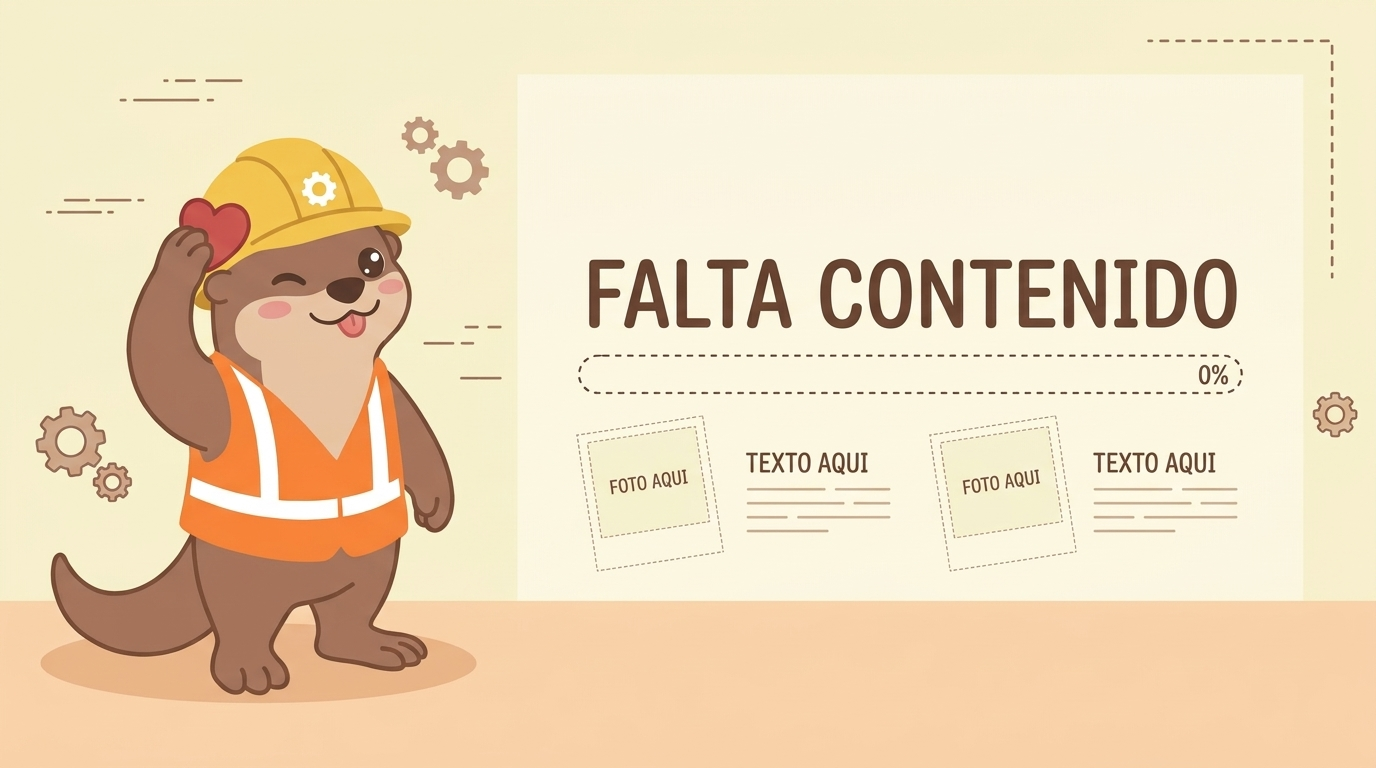
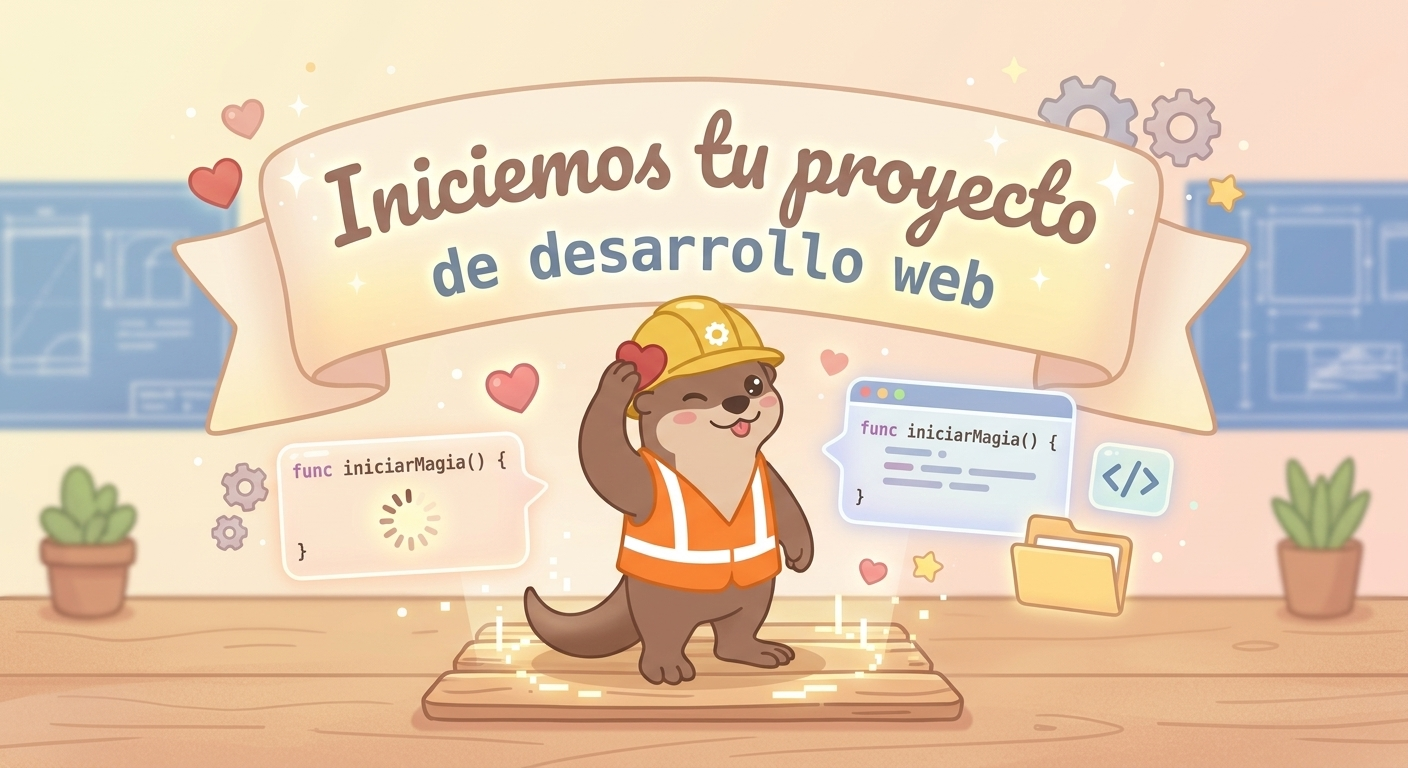
Mejoras generales y cambio a img portada

diff --git a/js/app.js b/js/app.js
@@ -2,8 +2,8 @@
    Cambia estos datos, activa/oculta páginas con on:true/false
    y activa/oculta zonas de la anatomía con on:true/false. */
 const CONFIG={
-  project:"[Nombre del proyecto]", client:"[Nombre del cliente]", analyst:"[Analista Funcional]",
-  contact:"[correo@empresa.com] · [Teléfono]",
+  project:"Protafolio Profesional (Med-Page)", client:"Dra M.Camila Paredes P.", analyst:"Inti Panesso C. / Analista Funcional",
+  contact:"intipanessochavez@gmail.com · +57 333 23566966",
   goal:"[Ej.: Presentar los servicios y facilitar que los clientes nos contacten.]",
   audience:"[Ej.: Familias de la ciudad que buscan servicios de ___.]",
   formspree:"https://formspree.io/f/TU_ID",
@@ -19,7 +19,16 @@ const CONFIG={
   styler:true, /* mostrar el selector de estilos visuales */
   zones:{nav:true,header:true,body:true,footer:true,modal:true,anim:true},
   brandingState:[["Logotipo","[Sí / No / En proceso]"],["Paleta de colores","[Sí / No / En proceso]"],["Tipografías","[Sí / No / En proceso]"],["Fotografías propias","[Sí / No / En proceso]"],["Manual de marca","[Sí / No / En proceso]"]],
-  stages:[["Descubrimiento","Conversamos sobre tu negocio, objetivos y público.","Responder preguntas","[X días]"],["Estructura (el plano)","Definimos páginas y contenido de cada una.","Aprobar el mapa del sitio","[X días]"],["Diseño","Colores, tipografías, imágenes y estilo.","Opinar y aprobar","[X días]"],["Desarrollo","Convertimos el diseño en página funcional.","Entregar textos e imágenes finales","[X días]"],["Pruebas","Revisamos celular, tablet y computador.","Probar y reportar","[X días]"],["Publicación","Tu sitio sale a internet.","Aprobación final","[X días]"],["Acompañamiento","Resolvemos dudas y ajustes.","Avisarnos novedades","[X días]"]]
+  stages:[
+  ["Descubrimiento","Conversamos sobre tu negocio, objetivos y público.","Responder preguntas","[X días]",2,"Conversaciones y definición de objetivos: pide claridad de ideas más que trabajo técnico."],
+  ["Estructura (el plano)","Definimos páginas y contenido de cada una.","Aprobar el mapa del sitio","[X días]",3,"Hay que decidir qué páginas existen y priorizar qué se cuenta en cada una."],
+  ["Diseño","Colores, tipografías, imágenes y estilo.","Opinar y aprobar","[X días]",4,"Traducir tu identidad en colores, tipografías y formas; suele requerir varias rondas de ajustes."],
+  ["Desarrollo","Convertimos el diseño en página funcional.","Entregar textos e imágenes finales","[X días]",5,"La etapa más técnica y larga: construir cada página, conectar el formulario y adaptar todo a celular, tablet y computador."],
+  ["Pruebas","Revisamos celular, tablet y computador.","Probar y reportar","[X días]",3,"Revisar en distintos dispositivos y corregir detalles; depende de reportar observaciones a tiempo."],
+  ["Publicación","Tu sitio sale a internet.","Aprobación final","[X días]",2,"Configuración técnica del dominio y el alojamiento; se hace una sola vez."],
+  ["Acompañamiento","Resolvemos dudas y ajustes.","Avisarnos novedades","[X días]",1,"Resolver dudas y hacer ajustes menores; esfuerzo ligero y puntual."]
+  /* Cada etapa: [nombre, qué sucede, qué necesitamos, duración, nivel de dificultad 1-5 (1 Bajo … 5 Alto), descripción] */
+]
 };
 const ZONES=[
  {k:"nav",cls:"nv",name:"Barra de navegación (nav)",what:"El directorio del sitio: enlaces para moverse entre secciones.",does:"Si el visitante no encuentra lo que busca en segundos, se va. En el celular suele plegarse en un ícono ☰.",ask:"Qué opciones tendrá, en qué orden y si lleva un botón destacado."},
@@ -42,7 +51,7 @@ const GLOS=[["Nav / Menú","Barra de enlaces para moverse por el sitio."],["Head
 /* ============ COMPONENTES REUTILIZABLES ============ */
 const $=s=>document.querySelector(s);
 const on=()=>CONFIG.pages.filter(p=>p.on);
-const Nav=cur=>`<b>${CONFIG.project}</b>`+on().map(p=>`<a href="#${p.id}" ${p.id===cur?'aria-current="page"':''}>${p.label}</a>`).join("")+`<button class="btn alt mt" id="mt" type="button" aria-label="Cambiar entre modo claro y oscuro">☾</button>`;
+const Nav=cur=>`<b class="brand">${CONFIG.project}</b><div class="links" id="nl">`+on().map(p=>`<a href="#${p.id}" ${p.id===cur?'aria-current="page"':''}>${p.label}</a>`).join("")+`</div><button class="btn alt mt" id="mt" type="button" aria-label="Cambiar entre modo claro y oscuro">☾</button><button class="btn alt hb" id="hb" type="button" aria-expanded="false" aria-controls="nl" aria-label="Abrir menú">☰</button>`;
 const Header=(p,title,lead)=>{const l=on(),i=l.findIndex(x=>x.id===p.id)+1;return `<header class="hdr"><small>Página ${i} de ${l.length}</small><h1>${title}</h1><p>${lead}</p></header>`};
 const Footer=()=>`<p><b>${CONFIG.client}</b> · Preparado por ${CONFIG.analyst}</p><p>${CONFIG.contact}</p>`;
 const Placeholder=(slot,t)=>Carousel(slot,t);
@@ -99,12 +108,33 @@ function openLightbox(list,i){LB.list=list;lbShow(i);const d=$("#lb");if(!d.open
  d.addEventListener("click",e=>{if(e.target===d)d.close()});
 })();
 
+/* ============ AYUDA Y ACCESOS AL MEZCLADOR DE ESTILO ============ */
+function openStyler(tab){const sp=$("#sp");if(!sp)return;if(tab&&CONFIG.styler){TAB=tab;drawStyles()}sp.classList.remove("min");$("#stg").setAttribute("aria-expanded","true");$("#fp").classList.add("min");$("#tg").setAttribute("aria-expanded","false");$("#stg").focus()}
+const StylerHelp=()=>!CONFIG.styler?"":`<div class="box cta"><h2>Prueba el aspecto de tu sitio con el mezclador de estilo visual</h2>
+<p>Mientras recorres esta guía puedes cambiar cómo se ve <b>toda la página</b>, para descubrir qué estilo te representa. Solo cambia el aspecto: el contenido y las imágenes se mantienen.</p>
+<div class="grid"><div><h3>Tipografía</h3><p>${FD.length} fuentes de Google Fonts, de sobrias a juguetonas.</p></div><div><h3>Colores</h3><p>${COLORS.length} paletas. Cada una trae su versión complementaria, clara u oscura.</p></div><div><h3>Formas y efectos</h3><p>${STYLES.length} estilos: esquinas, bordes, sombras, vidrio, relieve, pixel art y más.</p></div><div><h3>Todo</h3><p>Aplica un estilo completo de una sola vez: fuente, colores y forma.</p></div></div>
+<h3>Cómo usarlo</h3><p><b>1.</b> Abre el panel <b>Estilo visual</b> (abajo a la izquierda) o usa el botón de abajo.<br><b>2.</b> Elige una pestaña y toca una opción: el sitio cambia al instante. Puedes combinar libremente una fuente, una paleta y una forma.<br><b>3.</b> Cambia entre modo claro y oscuro con el botón ☾/☀ de la barra superior o con el selector del panel (Automático sigue tu dispositivo).<br><b>4.</b> ¿Sin ideas? Pulsa <b>Mezclar al azar</b>. <b>Restablecer</b> vuelve al aspecto inicial.<br><b>5.</b> Tu elección se guarda en este navegador y, al enviar el formulario, le llega al equipo junto con el detalle técnico para reproducirla.</p>
+<button class="btn" onclick="openStyler('t')">🎨 Abrir el mezclador de estilo</button></div>`;
+const StylerCTA=()=>!CONFIG.styler?"":`<div class="box cta"><h3>¿Quieres ver cómo se vería tu marca?</h3><p>Prueba tipografías, colores y formas en tiempo real; el sitio completo se adapta a tu elección.</p>
+<button class="btn" onclick="openStyler('t')">🎨 Abrir el mezclador de estilo visual</button> <button class="btn alt" onclick="openStyler('f')">Tipografías</button> <button class="btn alt" onclick="openStyler('c')">Colores</button> <button class="btn alt" onclick="openStyler('s')">Formas</button></div>`;
+
+/* ============ MEDIDOR DE DIFICULTAD / ESFUERZO ============ */
+const LEVELS=[["Bajo","#2e9e5b"],["Bajo-Medio","#8bb934"],["Medio","#e0a800"],["Medio-Alto","#f07f1f"],["Alto","#d6453d"]];
+const Meter=n=>{const L=LEVELS[n-1];if(!L)return "—";return `<div class="mtr" role="img" aria-label="Dificultad ${L[0]}: nivel ${n} de 5"><span class="mb">${LEVELS.map((l,i)=>i<n?`<i class="on" style="background:${l[1]};animation-delay:${i*70}ms"></i>`:"<i></i>").join("")}</span><b class="ml"><span class="dot" style="background:${L[1]}"></span>${L[0]}</b></div>`};
+const Legend=()=>`<p class="lg"><b>Escala de dificultad:</b>${LEVELS.map(l=>`<span><i class="dot" style="background:${l[1]}"></i>${l[0]}</span>`).join("")}</p>`;
+
+/* ============ MENÚ HAMBURGUESA (móvil) ============ */
+function setMenu(o){const n=$("#nav"),b=$("#hb");n.classList.toggle("open",o);if(b){b.setAttribute("aria-expanded",String(o));b.setAttribute("aria-label",o?"Cerrar menú":"Abrir menú");b.textContent=o?"✕":"☰"}}
+document.addEventListener("click",e=>{if(!e.target.closest("#nav"))setMenu(false)});
+document.addEventListener("keydown",e=>{if(e.key==="Escape"&&$("#nav").classList.contains("open")){setMenu(false);const b=$("#hb");if(b)b.focus()}});
+addEventListener("resize",()=>{if(innerWidth>768)setMenu(false)});
+
 /* ============ PÁGINAS (bloques intercambiables) ============ */
 const PAGES={
-inicio:()=>({t:"Bienvenido/a a tu proyecto",l:"Este sitio te explica, paso a paso, de qué se compone una página web y qué necesitamos de ti. No necesitas conocimientos técnicos.",h:`
+inicio:()=>({t:"Bienvenida a tu proyecto",l:"Este sitio te explica, paso a paso, de qué se compone una página web y qué necesitamos de ti. No necesitas conocimientos técnicos.",h:`
 <div class="grid"><div class="box"><h2>Objetivo del proyecto</h2><p>${CONFIG.goal}</p></div><div class="box"><h2>¿A quién va dirigida?</h2><p>${CONFIG.audience}</p></div></div>
 <div class="box"><h2>Cómo usar esta guía</h2><p><b>1.</b> Recorre las páginas del menú para conocer cada parte de un sitio web.<br><b>2.</b> Abre el panel <b>Tu información</b>, abajo a la derecha, y ve completando tus datos cuando quieras: se guarda en este navegador.<br><b>3.</b> Revisa el prototipo en la página Prototipo y anota tus comentarios.<br><b>4.</b> Pulsa <b>Enviar</b> y recibiremos todo.</p>
-<button class="btn" onclick="location.hash='estructura'">Empezar por la estructura</button></div>${Placeholder("portada","logo o imagen de portada del proyecto")}`}),
+<button class="btn" onclick="location.hash='estructura'">Empezar por la estructura</button></div>${StylerHelp()}${Placeholder("portada","logo o imagen de portada del proyecto")}`}),
 
 estructura:()=>({t:"Dónde va cada cosa",l:"Una página web se arma como un edificio: entrada, directorio, espacios principales y zona de servicios. Toca cada zona del boceto.",h:`
 <div class="grid"><div><div class="wf" id="wf">${ZONES.filter(z=>CONFIG.zones[z.k]).map(z=>`<button class="z ${z.cls}" data-k="${z.k}" aria-pressed="false">${z.k==="anim"?"Animación":z.name.split(" (")[0]}</button>`).join("")}</div></div>
@@ -123,13 +153,14 @@ contenido:()=>({t:"Títulos, textos y botones",l:"Dentro de cada sección, el co
 <p><b>Ventana modal:</b> así aparece una ventana por encima de la página.</p><button class="btn alt" id="dm">Abrir ejemplo de modal</button></div>
 ${Placeholder("contenido","sección del proyecto con título, párrafo y botón señalados")}`,after(){$("#dm").onclick=()=>openModal("¡Tu mensaje fue enviado!","<p>Esto es una ventana modal: muestra información extra sin salir de la página.</p>")}}),
 
-proceso:()=>({t:"Cómo trabajaremos",l:"Como construir una casa: se conversa, se dibuja el plano, se construye y se entrega.",h:`<div class="box tw"><table><thead><tr><th>Etapa</th><th>¿Qué sucede?</th><th>Qué necesitamos de ti</th><th>Duración</th></tr></thead><tbody>${CONFIG.stages.map((s,i)=>`<tr><td><b>${i+1}. ${s[0]}</b></td><td>${s[1]}</td><td>${s[2]}</td><td>${s[3]}</td></tr>`).join("")}</tbody></table></div>
+proceso:()=>({t:"Cómo trabajaremos",l:"Como construir una casa: se conversa, se dibuja el plano, se construye y se entrega.",h:`<div class="box tw"><table><thead><tr><th>Etapa</th><th>¿Qué sucede?</th><th>Qué necesitamos de ti</th><th>Duración</th><th>Dificultad / esfuerzo</th></tr></thead><tbody>${CONFIG.stages.map((s,i)=>`<tr><td data-label="Etapa"><b>${i+1}. ${s[0]}</b></td><td data-label="¿Qué sucede?">${s[1]}</td><td data-label="Qué necesitamos de ti">${s[2]}</td><td data-label="Duración">${s[3]}</td><td class="df" data-label="Dificultad / esfuerzo">${s[4]?Meter(s[4]):"—"}${s[5]?`<small class="dd">${s[5]}</small>`:""}</td></tr>`).join("")}</tbody></table></div>
+${Legend()}
 <div class="box"><h3>Revisiones</h3><p>En cada etapa te mostraremos un avance y pediremos tu aprobación. Sé específico/a: “Quiero el título de Servicios más grande” ayuda más que “No me convence”. Si cambia el alcance, ajustaremos tiempos y costos.</p></div>${Placeholder("proceso","línea de tiempo con fechas reales")}`}),
 
 branding:()=>({t:"Tu identidad visual",l:"Es la personalidad visual de tu negocio: cómo se ve y cómo se siente. Si aún no la tienes, la definimos contigo.",h:`
-<div class="grid"><div class="box"><h3>Qué incluye</h3><p>Logotipo, paleta de 2 a 4 colores, tipografías, estilo de imágenes y tono de comunicación.</p></div>
+${StylerCTA()}<div class="grid"><div class="box"><h3>Qué incluye</h3><p>Logotipo, paleta de 2 a 4 colores, tipografías, estilo de imágenes y tono de comunicación.</p></div>
 <div class="box"><h3>¿Sin branding?</h3><p>Conversamos cómo quieres que te perciban, revisamos 3 a 5 referencias, proponemos colores y tipografías, y ajustamos hasta que te sientas representado/a.</p></div></div>
-<div class="box tw"><table><thead><tr><th>Elemento</th><th>¿Existe?</th></tr></thead><tbody>${CONFIG.brandingState.map(r=>`<tr><td>${r[0]}</td><td>${r[1]}</td></tr>`).join("")}</tbody></table></div>${Placeholder("branding","moodboard, paleta de colores o propuesta de logo")}`}),
+<div class="box tw"><table><thead><tr><th>Elemento</th><th>¿Existe?</th></tr></thead><tbody>${CONFIG.brandingState.map(r=>`<tr><td data-label="Elemento">${r[0]}</td><td data-label="¿Existe?">${r[1]}</td></tr>`).join("")}</tbody></table></div>${Placeholder("branding","moodboard, paleta de colores o propuesta de logo")}`}),
 
 prototipo:()=>({t:"Prototipo del proyecto",l:"Recorre las capturas del prototipo y cuéntanos tus comentarios en el panel “Tu información”, sección Prototipo.",h:`${Carousel("prototipo","capturas del prototipo del proyecto")}
 <div class="box"><h3>¿Qué revisar?</h3><p>Fíjate en la estructura, los textos, los colores y si falta algo. Anota lo que quieras cambiar en el formulario.</p><button class="btn" onclick="openForm()">Abrir formulario</button></div>`}),
@@ -139,7 +170,7 @@ glosario:()=>({t:"Mini glosario",l:"Toca un término para ver su significado.",h
 
 /* ============ ROUTER ============ */
 function route(){const l=on();if(!l.length)return;const p=l.find(x=>x.id===location.hash.slice(1))||l[0];const d=PAGES[p.id]?PAGES[p.id]():{t:p.label,l:"",h:""};
- document.title=`${d.t} · ${CONFIG.project}`;$("#nav").innerHTML=Nav(p.id);$("#mt").onclick=toggleMode;syncMT();$("#app").innerHTML=Header(p,d.t,d.l)+d.h+Pager(p.id);$("#ftr").innerHTML=Footer();if(d.after)d.after();initCarousels($("#app"));window.scrollTo(0,0)}
+ document.title=`${d.t} · ${CONFIG.project}`;$("#nav").innerHTML=Nav(p.id);$("#mt").onclick=toggleMode;syncMT();$("#hb").onclick=()=>setMenu(!$("#nav").classList.contains("open"));$("#nl").onclick=e=>{if(e.target.closest("a"))setMenu(false)};setMenu(false);$("#app").innerHTML=Header(p,d.t,d.l)+d.h+Pager(p.id);$("#ftr").innerHTML=Footer();if(d.after)d.after();initCarousels($("#app"));window.scrollTo(0,0)}
 addEventListener("hashchange",route);
 
 /* ============ FORMULARIO FLOTANTE ============ */

diff --git a/css/styles.css b/css/styles.css
@@ -7,7 +7,7 @@ h1,h2,h3{font-family:var(--fh);font-weight:var(--hw);text-transform:var(--ht);te
 h1{font-size:calc(clamp(2rem,5vw,3.1rem)*var(--hz));overflow-wrap:anywhere}h2{font-size:calc(1.5rem*(1 + (var(--hz) - 1)*.5))}h3{font-size:1.1rem}
 p{margin:0 0 1em;max-width:68ch}a{color:var(--acc)}
 :focus-visible{outline:3px solid var(--hl);outline-offset:2px}
-.nav{position:sticky;top:env(safe-area-inset-top,0px);z-index:5;background:var(--surf);backdrop-filter:var(--bf,none);-webkit-backdrop-filter:var(--bf,none);border-bottom:1px solid var(--line);display:flex;gap:4px;align-items:center;padding:8px 16px;overflow-x:auto}
+.nav{position:sticky;top:env(safe-area-inset-top,0px);z-index:5;background:var(--surf);backdrop-filter:var(--bf,none);-webkit-backdrop-filter:var(--bf,none);border-bottom:1px solid var(--line);display:flex;gap:4px;align-items:center;padding:8px 16px}
 .nav b{font-family:var(--fh);margin-right:12px;white-space:nowrap}
 .nav a{padding:6px 12px;border-radius:var(--r);text-decoration:none;color:var(--ink);white-space:nowrap}
 .nav a[aria-current]{background:var(--acc);color:var(--accT)}
@@ -89,3 +89,57 @@ a.btn{text-decoration:none;display:inline-block}
 .lbb:hover{background:rgba(255,255,255,.2)}.lbb[hidden]{display:none}
 .lbn{position:absolute;top:calc(50% - 20px);z-index:2;border-radius:50%}.lbn.pv{left:10px}.lbn.nx{right:10px}
 .lbh{position:absolute;bottom:8px;left:0;right:0;margin:0;max-width:none;text-align:center;font-size:.78rem;color:rgba(255,255,255,.75);pointer-events:none;z-index:2;text-shadow:0 1px 3px #000}
+.cta{border-left:6px solid var(--acc)}
+.cta .btn{margin:2px 0}
+.mtr{min-width:150px;margin-bottom:6px}
+.mb{display:flex;gap:3px;margin-bottom:4px}
+.mb i{flex:1;height:10px;border-radius:min(var(--r),5px);background:var(--line);opacity:.6}
+.mb i.on{opacity:1;transform-origin:left;animation:mfill .5s ease both}
+@keyframes mfill{from{transform:scaleX(0)}}
+.ml{display:flex;align-items:center;gap:6px;font-size:.85rem}
+.dot{display:inline-block;width:10px;height:10px;border-radius:50%;flex:none}
+td.df{min-width:210px}.dd{display:block;color:var(--mut);font-size:.82rem;line-height:1.35}
+.lg{display:flex;flex-wrap:wrap;gap:6px 16px;align-items:center;font-size:.85rem;color:var(--mut);margin:-8px 0 20px;max-width:none}
+.lg span{display:inline-flex;align-items:center;gap:6px}
+@media (prefers-reduced-motion:reduce){.mb i.on{animation:none}}
+.links{display:flex;gap:4px;overflow-x:auto;min-width:0}
+.hb{display:none;margin-left:4px;padding:6px 12px;font-size:1.15rem;line-height:1;flex:none}
+.nav b{overflow:hidden;text-overflow:ellipsis;max-width:46vw;min-width:0}
+button,a{touch-action:manipulation}
+body{overflow-x:clip}img,svg{max-width:100%}
+@media (max-width:768px){
+ .nav{padding:8px 12px}
+ .hb{display:inline-flex;align-items:center}
+ .links{display:none;position:absolute;top:100%;left:0;right:0;flex-direction:column;gap:2px;padding:8px 12px 12px;background:var(--card);border-bottom:1px solid var(--line);box-shadow:0 14px 24px rgba(0,0,0,.18);max-height:calc(100vh - 64px);overflow-y:auto}
+ .nav.open .links{display:flex}
+ .links a{padding:12px 14px}
+ .nav b{margin-right:0;max-width:none;flex:1}
+ .mt{margin-left:0}
+ .wrap{padding:20px 14px 110px}
+ .hdr{padding:12px 0 16px;margin-bottom:20px}
+ .box{padding:min(var(--pd),18px)}
+}
+@media (max-width:700px){
+ .box.tw{overflow:visible}
+ .tw table,.tw thead,.tw tbody,.tw tr,.tw td{display:block}
+ .tw thead{position:absolute;left:-9999px}
+ .tw tr{border:1px solid var(--line);border-radius:var(--r);padding:8px 12px;margin-bottom:12px}
+ .tw td{border:0;padding:6px 0}
+ .tw td[data-label]::before{content:attr(data-label);display:block;font-size:.75rem;text-transform:uppercase;letter-spacing:.04em;color:var(--mut)}
+ td.df{min-width:0}
+}
+@media (max-width:600px){
+ h1{font-size:calc(clamp(1.7rem,8vw,2.4rem)*min(var(--hz),1.4))}
+ .grid{grid-template-columns:1fr}
+ #fp.min #cnt,#sp.min #sn{display:none}
+ #fp.min>button.tg,#sp.min>button.tg{padding:10px 12px;font-size:.9rem}
+ #fp,#sp{bottom:calc(10px + env(safe-area-inset-bottom,0px))}
+ #fp{right:10px}#sp{left:10px}
+ #fp:not(.min),#sp:not(.min){left:8px;right:8px;width:auto;max-height:78vh;max-height:78dvh}
+ .tabs button{padding:9px 6px}
+ .dots{gap:10px}.dots button{width:14px;height:14px}
+ .sl{padding:8px}.cb{width:36px;height:36px}
+ #lb{width:100vw;height:100vh;height:100dvh;max-height:none;border-radius:0;border:0}
+ .lbh{display:none}.lbt{padding:8px}
+}
+@media (hover:none){.kh{display:none}}

diff --git a/index.html b/index.html
@@ -3,7 +3,7 @@
 <head>
 <meta charset="utf-8">
 <meta name="viewport" content="width=device-width, initial-scale=1, viewport-fit=cover">
-<title>Guía de tu proyecto web</title>
+<title>Guía: tu proyecto web</title>
 <link rel="preconnect" href="https://fonts.googleapis.com"><link rel="preconnect" href="https://fonts.gstatic.com" crossorigin><link href="https://fonts.googleapis.com/css2?family=Inter:wght@400;600;700&family=Lora:wght@400;600&family=Playfair+Display:wght@400;700&family=Poppins:wght@400;600;700&family=Roboto+Mono:wght@400;600&family=Space+Grotesk:wght@400;500;700&display=swap" rel="stylesheet">
 <link rel="stylesheet" href="css/styles.css">
 </head>

diff --git a/README.md b/README.md
@@ -50,3 +50,12 @@ El borrador del formulario (`guia-borrador`) y el estilo visual (`guia-estilo3`)
 
 ## Visor ampliado con zoom
 Al hacer clic (o Enter) en cualquier imagen de un carrusel se abre una ventana modal (`#lb`) con la imagen grande. Zoom de 100 % a 800 %: botones − / +, rueda del ratón, pellizco en pantallas táctiles, doble clic o doble toque (100 % ↔ 250 %) y teclas `+`, `-`, `0`. Con zoom, se mueve arrastrando. Si el carrusel tiene varias imágenes, se navega con ‹ › o las flechas del teclado; Esc o ✕ cierran. Lógica en `js/app.js` (`openLightbox`, `lbZoom`).
+
+## Ayuda y accesos al mezclador
+La página Inicio explica el mezclador (`StylerHelp()`) y la página Identidad tiene un botón de acceso rápido (`StylerCTA()`) que abre el panel en la pestaña elegida (`openStyler('t'|'f'|'c'|'s')`). Ambos desaparecen si `CONFIG.styler=false`.
+
+## Tabla del proceso: dificultad / esfuerzo
+Cada etapa de `CONFIG.stages` lleva al final un nivel del 1 al 5 (1 Bajo, 2 Bajo-Medio, 3 Medio, 4 Medio-Alto, 5 Alto) y una breve descripción. La tabla de la página Proceso los muestra con un medidor de 5 segmentos (verde → rojo, `Meter()`) y una leyenda de la escala. Para cambiar los niveles o colores edita `LEVELS` y los dos últimos datos de cada etapa; si una etapa no tiene nivel, muestra “—”.
+
+## Diseño responsivo y menú hamburguesa
+Puntos de corte en `css/styles.css`: 768 px (menú hamburguesa ☰ con desplegable; el botón de modo claro/oscuro queda visible en la barra), 700 px (las tablas pasan a tarjetas apiladas usando `data-label` en cada celda: añade `data-label` a las tablas nuevas), 600 px (paneles flotantes compactos y a ancho completo al abrirse, títulos acotados, visor de imágenes a pantalla completa). El menú se cierra al elegir una página, con Esc, al tocar fuera o al ampliar la ventana (`setMenu()` en `js/app.js`).
